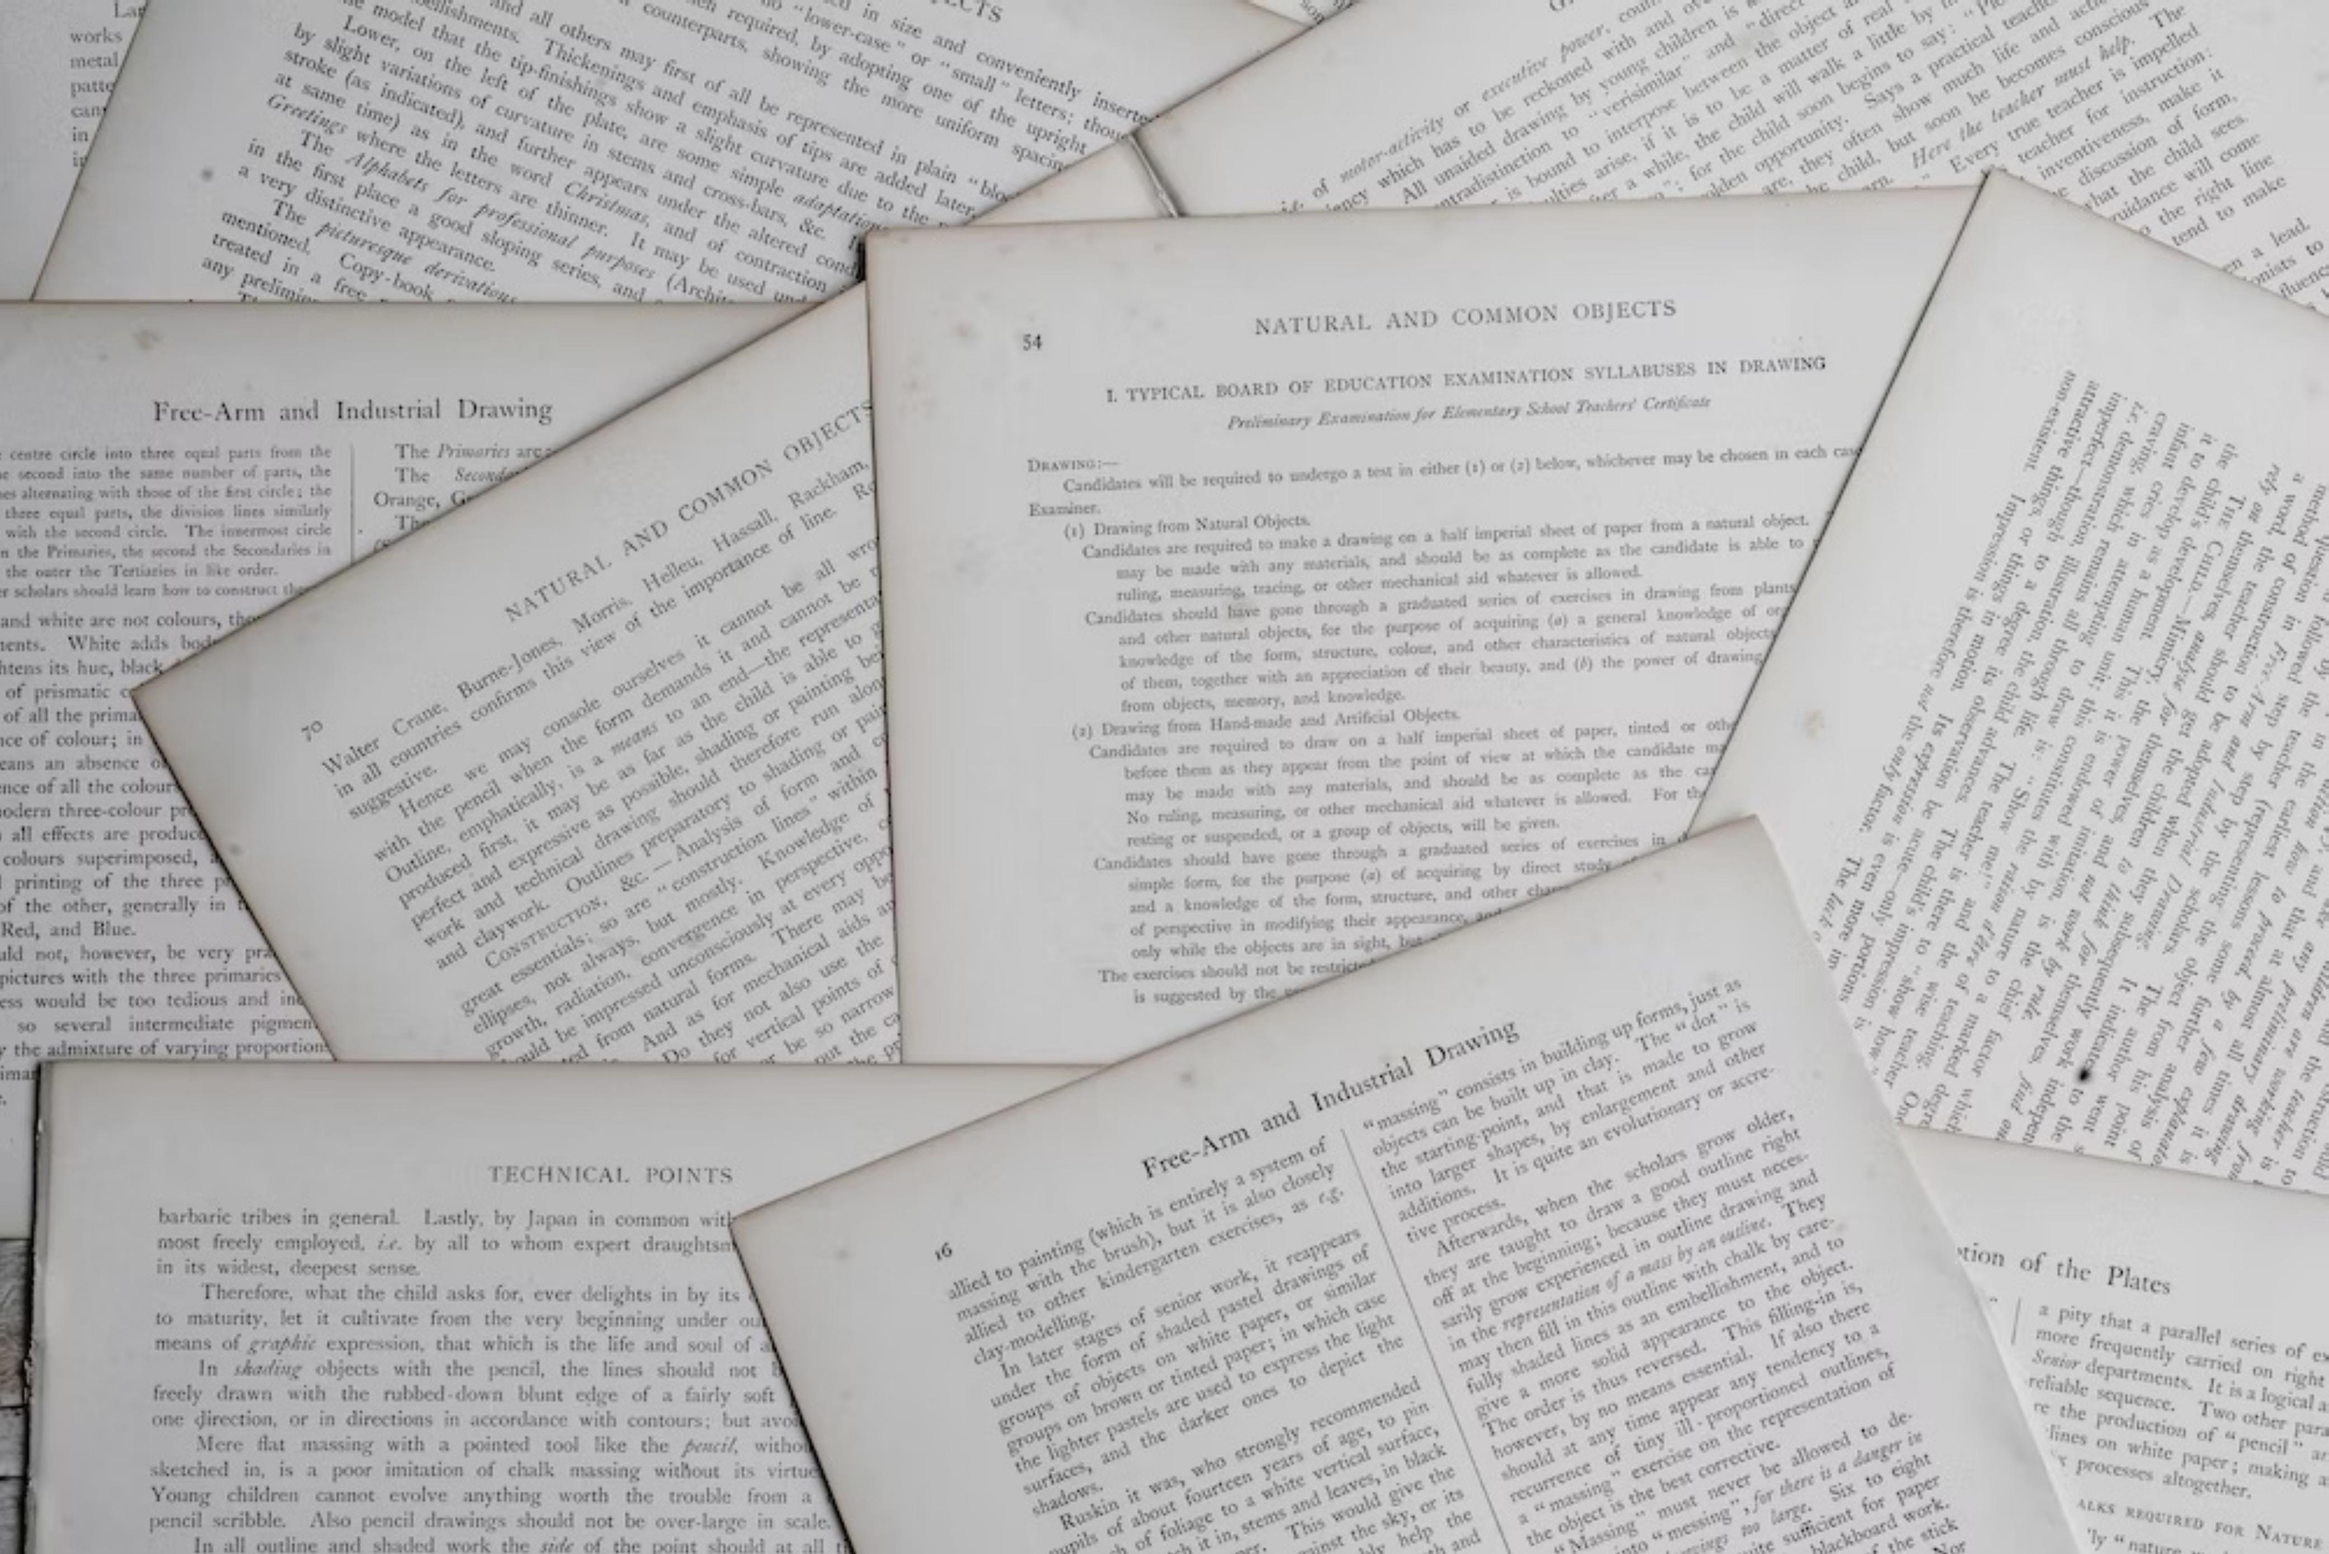
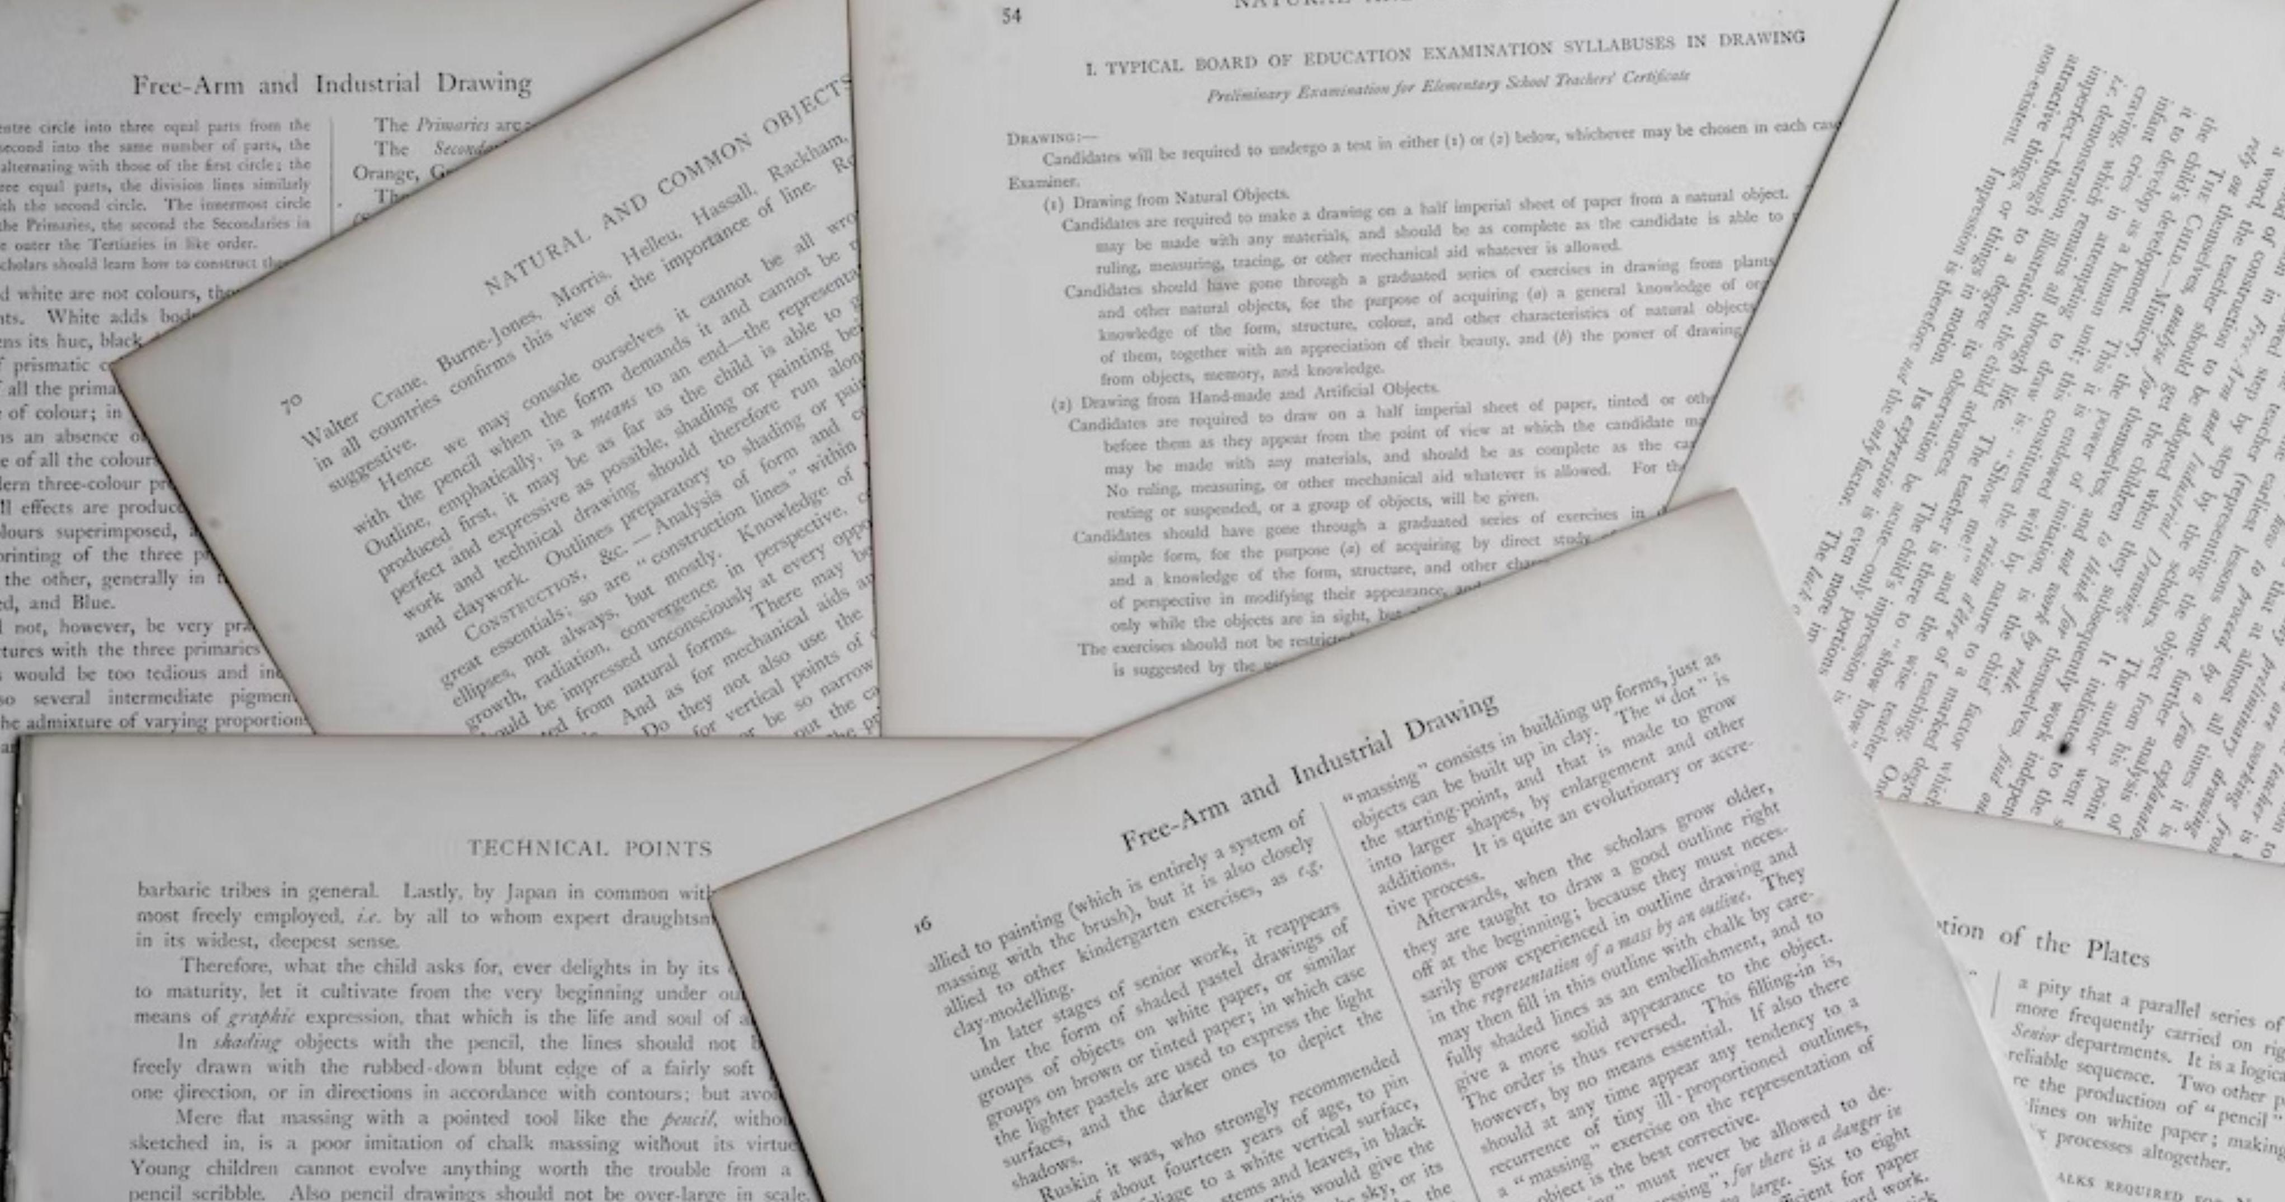
dunno

Changed region(s): [[0.0, 0.0, 1.0, 1.0], [0.8699, 0.7787, 1.0, 1.0]]

diff --git a/index.html b/index.html
@@ -32,7 +32,7 @@
 
  
     
-        <img id="myImage" src="assets/images/papers.jpg" alt="Background Image">
+        <img id="myImage" src="assets/images/Header.jpg" alt="Background Image">
         <div class="description-container">
             <h1>The Bid Consultants</h1>
             <p>Unlock the full potential of your bid writing team with our specialized training, high-quality proposal writing, and comprehensive review services.</p>
@@ -45,21 +45,21 @@
     <!-- Products Container -->
     <div class="products-container">
         <div class="product">
-            <a href="http://www.freeimages.co.uk/galleries/workplace/office/slides/abacus_with_copyspace.htm" target="_blank"><img src="https://www.freeimageslive.com/galleries/workplace/office/preview/abacus_with_copyspace.jpg" title="Wooden abacus lying on a desk or table by www.freeimages.co.uk" width="100" ></a>
+            <a href="http://www.freeimages.co.uk/galleries/workplace/office/slides/abacus_with_copyspace.htm" target="_blank"><img src="https://www.freeimageslive.com/galleries/workplace/office/preview/abacus_with_copyspace.jpg" title="Wooden abacus lying on a desk or table by www.freeimages.co.uk" width="100" class="styled-image"></a>
             <h2>Bid Strategy Development</h2>
             <p>We assist in creating a winning bid strategy, including a technical approach and risk assessment.</p>
             <a href="your-link-here" class="button">Go to Page</a>
 
         </div>
         <div class="product">
-            <a href="http://www.freeimages.co.uk/galleries/workplace/office2/slides/pencil_and_paper.htm" target="_blank"><img src="https://www.freeimageslive.com/galleries/workplace/office2/preview/pencil_and_paper.jpg" title="Open notebook with pencil by www.freeimages.co.uk" width="100"></a>   
+            <a href="http://www.freeimages.co.uk/galleries/workplace/office2/slides/pencil_and_paper.htm" target="_blank"><img src="https://www.freeimageslive.com/galleries/workplace/office2/preview/pencil_and_paper.jpg" title="Open notebook with pencil by www.freeimages.co.uk" width="100" class="styled-image"></a>   
             <h2>Team Formation</h2>
             <p>We help you assemble the right team of experts, partners, and subcontractors for each bid.</p>
             <a href="your-link-here" class="button">Go to Page</a>
 
         </div>
         <div class="product">
-            <a href="http://www.freeimages.co.uk/galleries/workplace/construction/slides/design_engineer_computer.htm" target="_blank"><img src="https://www.freeimageslive.com/galleries/workplace/construction/preview/design_engineer_computer.jpg" title="Engineers workplace with computer by www.freeimages.co.uk" width="100"></a>
+            <a href="http://www.freeimages.co.uk/galleries/workplace/construction/slides/design_engineer_computer.htm" target="_blank"><img src="https://www.freeimageslive.com/galleries/workplace/construction/preview/design_engineer_computer.jpg" title="Engineers workplace with computer by www.freeimages.co.uk" width="100" class="styled-image"></a>
            <h2>Bid Schedule</h2>
             <p>We develop a detailed timeline to ensure all components of the bid are completed on time.</p>
             <a href="your-link-here" class="button">Go to Page</a>

diff --git a/assets/css/style.css b/assets/css/style.css
@@ -99,6 +99,9 @@ main {
   
 }
 
+.styled-image {
+    opacity: 0.5;
+}
 .description-container {
     position: absolute;
     z-index: 2;
@@ -108,7 +111,7 @@ main {
     border-radius: 15px;
     padding: 20px;
     text-align: center;
-    top: 60%;
+    top: 35%;
     left: 50%;
     transform: translate(-50%, -50%);
     width: 80%; /* Adjust the width as needed */
